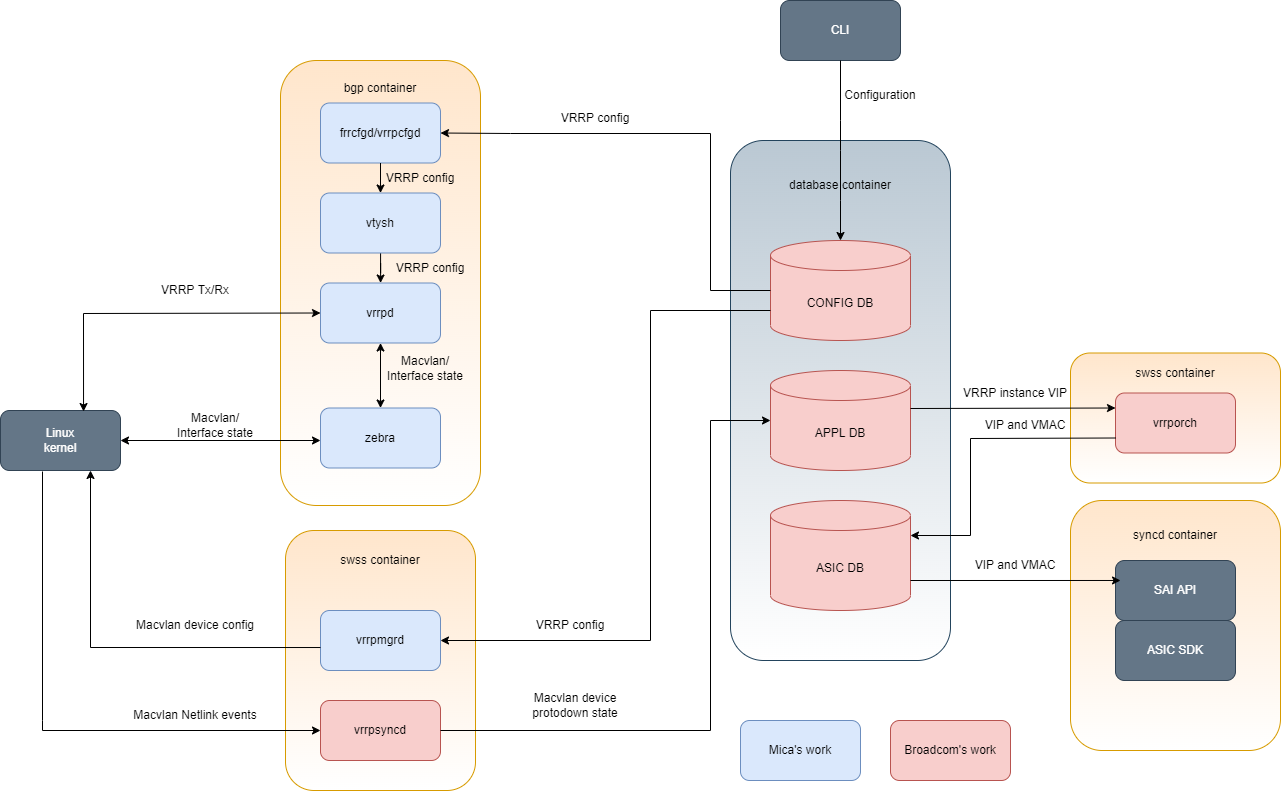
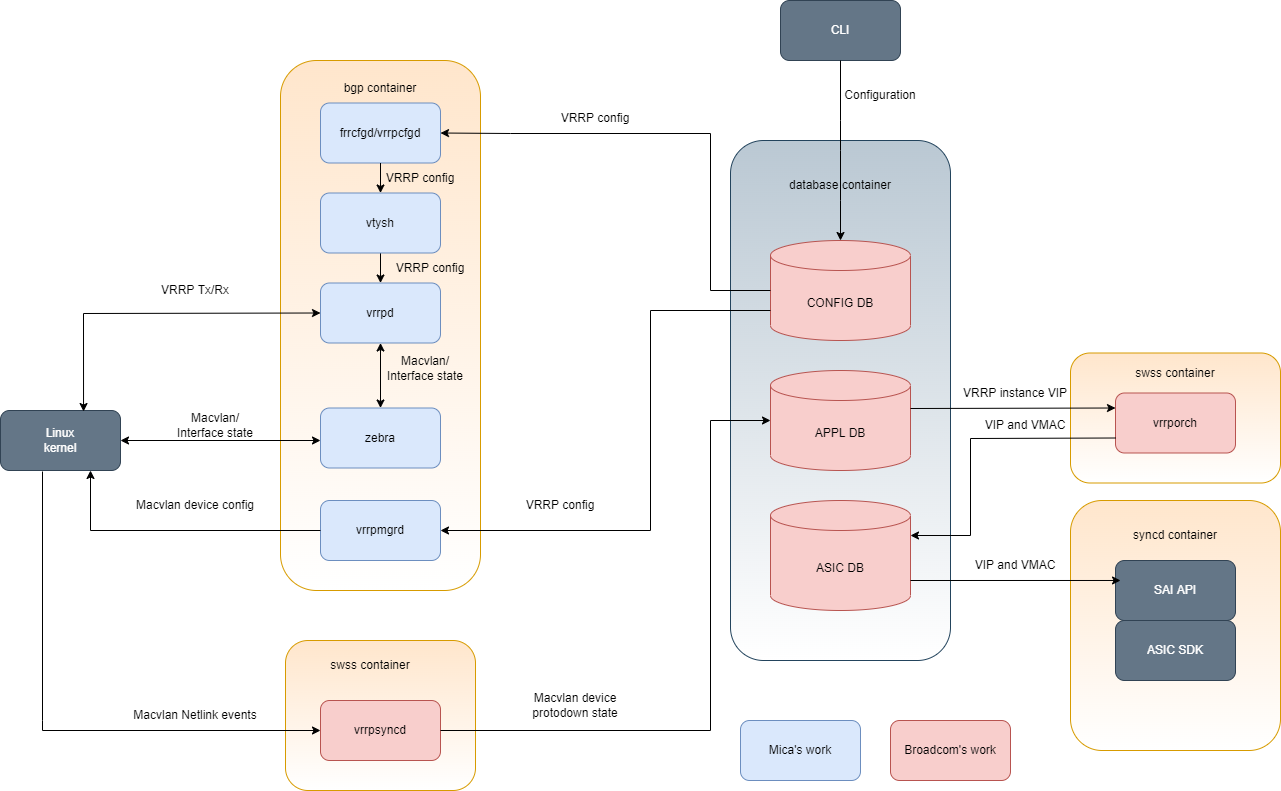
Run vrrpmgrd in BGP container

diff --git a/doc/vrrp/VRRP_Adaptation_HLD.md b/doc/vrrp/VRRP_Adaptation_HLD.md
@@ -216,13 +216,6 @@ zebra:
   - Provide an API for vrrpd to update kernel Macvlan device state.
   - Listen for kernel interface state change events and notify vrrpd.
 
-vrrpsyncd:
-  - Listens to MACVLAN interfaces that are added by vrrp, programming in kernel. Vrrpmgrd would add the MACVLAN interface in the kernel with interface name starting with 'vrrp'. Here the status of MACVLAN interface determines Master/Backup state of VRRP instances. VRRP_Table in APPL_DB will be programmed with interface name and VIP for Master instances.
-    - For every IP add to MACVLAN interface, adds interface name and Virtual IP in APPL_DB in VRRP_Table.
-    - For every IP delete from MACVLAN interface, deletes interface name and Virtual IP in APPL_DB from VRRP_Table.
-
-##### SWSS container
-
 vrrpmgrd:
   - Listens to VRRP create, delete and parameter change in CONFIG_DB. Complete the following tasks:
     - Add/del Linux Macvlan device to kernel. The Macvlan device name starting with 'Vrrp4-' or 'Vrrp6-'.
@@ -231,12 +224,19 @@ vrrpmgrd:
     - Update VRRP instance configuration to the APPL DB;
     - Update VRRP instance configuration to vrrpd by using vtysh commands.
 
+##### SWSS container
+
+vrrpsyncd:
+  - Listens to MACVLAN interfaces that are added by vrrp, programming in kernel. Vrrpmgrd would add the MACVLAN interface in the kernel with interface name starting with 'vrrp'. Here the status of MACVLAN interface determines Master/Backup state of VRRP instances. VRRP_Table in APPL_DB will be programmed with interface name and VIP for Master instances.
+    - For every IP add to MACVLAN interface, adds interface name and Virtual IP in APPL_DB in VRRP_Table.
+    - For every IP delete from MACVLAN interface, deletes interface name and Virtual IP in APPL_DB from VRRP_Table.
+
 vrrporch: 
   - Listens to VRRP_Table in APPL_DB and for entry in VRRP_TABLE, program the VIP as my IP and the VMAC as my MAC(virtual RIF) in ASIC_DB.
 
 #### CoPP Configurations
 
-CoPP will be extended as follows for trapping VRRPs. Whether to install it depends on the FEATURE|vrrp table in Config DB. If the VRRP state is enabled, it will be installed; otherwise, it will not be installed.
+CoPP will be extended as follows for trapping VRRPs. 
 ```
   "trap.group.vrrp": {
     "cir":"300",
@@ -252,7 +252,8 @@ CoPP will be extended as follows for trapping VRRPs. Whether to install it depen
   ...
   "vrrp": {
     "trap_ids": "vrrp", "vrrpv6",
-    "trap_group": "trap.group.vrrp"
+    "trap_group": "trap.group.vrrp",
+    "always_enabled": "true"
   },
 ```
 
@@ -542,11 +543,6 @@ SONIC Click based configuration and monitoring CLIs have been introduced in SONI
     - This command adds/ removes a VRRP instance on an interface.
     - interface_name:name of interface (Ethernet/Vlan/PortChannel/sub-interface).
     - vrrp_id:VRRP instance identifier.
-- config interface vrrp backup_forward <interface_name> <vrrp_id> enabled|disabled
-    - This command configures  enables/disables the VRRP instance to forward service traffic even if the VRRP instance in the backup state
-    - interface_name:name of interface (Ethernet/Vlan/PortChannel/sub-interface).
-    - vrrp_id:VRRP instance identifier.
-    - backup_forward: VRRP instance forwarding traffic in the backup state，can be enabled or disabeld. default is disabled.
 - config interface vrrp vip add/remove <interface_name> <vrrp_id> <virtual_ip_address>
     - This command adds a virtual IP address for a VRRP instance on an interface.
     - interface_name:name of interface (Ethernet/Vlan/PortChannel/sub-interface).
@@ -561,77 +557,67 @@ SONIC Click based configuration and monitoring CLIs have been introduced in SONI
     - This command configures VRRP periodic advertisement interval for a VRRP instance
     - interface_name:name of interface (Ethernet/Vlan/PortChannel/sub-interface).
     - vrrp_id:VRRP instance identifier.
-    - Interval: VRRP instance packet sending interval, range from 10 to 40950, unit: ms, default is 1000
+    - interval: VRRP instance packet sending interval, range from 10 to 40950, unit: ms, default is 1000
+- config interface vrrp version <interface_name> <vrrp_id> <version>
+    - This command configures VRRP periodic advertisement interval for a VRRP instance
+    - interface_name:name of interface (Ethernet/Vlan/PortChannel/sub-interface).
+    - vrrp_id:VRRP instance identifier.
+    - version: VRRP protocol version, 2 or 3, default is 3
 - config interface vrrp pre_empt enable/disable <interface_name> <vrrp_id>
     - This command enables pre-emption of a Master when a higher priority VRRP router arrives
     - interface_name:name of interface (Ethernet/Vlan/PortChannel/sub-interface).
     - vrrp_id:VRRP instance identifier.
-- config interface vrrp track_interface add/remove <interface_name> <vrrp_id> <track_interface>
+- config interface vrrp track_interface add/remove <interface_name> <vrrp_id> <track_interface> <priority_increment>
     - This command adds a track interface to a VRRP Instance.
     - interface_name:name of interface (Ethernet/Vlan/PortChannel/sub-interface).
     - vrrp_id:VRRP instance identifier.
     - track_interface: Interface to track. Interface can be Ethernet/Vlan/PortChannel
-- config interface vrrp priority_decrement <interface_name> <vrrp_id> <decrement_value>
-    - This command configures priority_decrement for a VRRP instance
-    - interface_name:name of interface (Ethernet/Vlan/PortChannel/sub-interface).
-    - vrrp_id:VRRP instance identifier.
-    - decrement_value: decrement the priority of the VRRP instance if the tracking interface goes down. range from 10 to 50, default is 20
+    - priority_increment: decrement the priority of the VRRP instance if the tracking interface goes down. range from 10 to 50, default is 20
 - config interface vrrp shutdown/startup <interface_name> <vrrp_id>
     - This command control up/down status of VRRP instance.
     - interface_name:name of interface (Ethernet/Vlan/PortChannel/sub-interface).
     - vrrp_id:VRRP instance identifier.
 
+- config interface vrrp6 add/remove <interface_name> <vrrp_id>
+    - This command adds/ removes a VRRPv6 instance on an interface.
+    - interface_name:name of interface (Ethernet/Vlan/PortChannel/sub-interface).
+    - vrrp_id:VRRPv6 instance identifier.
+- config interface vrrp6  ipv6 add/remove <interface_name> <vrrp_id> <virtual_ip_address>
+    - This command adds a virtual IP address for a VRRPv6 instance on an interface.
+    - interface_name:name of interface (Ethernet/Vlan/PortChannel/sub-interface).
+    - vrrp_id:VRRPv6 instance identifier.
+    - virtual_ip_address: VIP is an IPv6 address, represented in hexadecimal.
+- config interface vrrp6 priority <interface_name> <vrrp_id> <priority>
+    - This command configures priority for a VRRPv6 instance
+    - interface_name:name of interface (Ethernet/Vlan/PortChannel/sub-interface).
+    - vrrp_id:VRRPv6 instance identifier.
+    - priority: VRRPv6 instance priority, range from 1 to 254, default is 100
+- config interface vrrp6 adv_interval <interface_name> <vrrp_id> <interval>
+    - This command configures VRRPv6 periodic advertisement interval for a VRRPv6 instance
+    - interface_name:name of interface (Ethernet/Vlan/PortChannel/sub-interface).
+    - vrrp_id:VRRPv6 instance identifier.
+    - interval: VRRPv6 instance packet sending interval, range from 10 to 40950, unit: ms, default is 1000
+- config interface vrrp6 pre_empt enable/disable <interface_name> <vrrp_id>
+    - This command enables pre-emption of a Master when a higher priority VRRPv6 router arrives
+    - interface_name:name of interface (Ethernet/Vlan/PortChannel/sub-interface).
+    - vrrp_id:VRRPv6 instance identifier.
+- config interface vrrp6 track_interface add/remove <interface_name> <vrrp_id> <track_interface> <priority_increment>
+    - This command adds a track interface to a VRRPv6 Instance.
+    - interface_name:name of interface (Ethernet/Vlan/PortChannel/sub-interface).
+    - vrrp_id:VRRPv6 instance identifier.
+    - track_interface: Interface to track. Interface can be Ethernet/Vlan/PortChannel
+    - priority_increment: decrement the priority of the VRRPv6 instance if the tracking interface goes down. range from 10 to 50, default is 20
+- config interface vrrp6 shutdown/startup <interface_name> <vrrp_id>
+    - This command control up/down status of VRRPv6 instance.
+    - interface_name:name of interface (Ethernet/Vlan/PortChannel/sub-interface).
+    - vrrp_id:VRRPv6 instance identifier.
+
 ###### Show commands
 - show vrrp {interface <interface_name> } | <vrrp_id>
 - show vrrp summary
 
-```
-admin@sonic:~$ show vrrp interface Ethernet50
-
- Virtual Router ID                    5                   
- Protocol Version                     3                   
- Autoconfigured                       No                  
- Shutdown                             No                  
- Interface                            Ethernet50          
- VRRP interface (v4)                  Vrrp4-5             
- VRRP interface (v6)                  None                
- Primary IP (v4)                      10.0.0.98           
- Primary IP (v6)                      ::                  
- Virtual MAC (v4)                     00:00:5e:00:01:05   
- Virtual MAC (v6)                     00:00:5e:00:02:05   
- Status (v4)                          Master              
- Status (v6)                          Initialize          
- Priority                             100                 
- Effective Priority (v4)              100                 
- Effective Priority (v6)              100                 
- Preempt Mode                         Yes                 
- Accept Mode                          Yes                 
- Advertisement Interval               1000 ms             
- Master Advertisement Interval (v4)   1000 ms             
- Master Advertisement Interval (v6)   0 ms                
- Advertisements Tx (v4)               95                  
- Advertisements Tx (v6)               0                   
- Advertisements Rx (v4)               0                   
- Advertisements Rx (v6)               0                   
- Gratuitous ARP Tx (v4)               1                   
- Neigh. Adverts Tx (v6)               0                   
- State transitions (v4)               2                   
- State transitions (v6)               0                   
- Skew Time (v4)                       600 ms              
- Skew Time (v6)                       0 ms                
- Master Down Interval (v4)            3600 ms             
- Master Down Interval (v6)            0 ms                
- IPv4 Addresses                       1                   
- ..................................   10.10.10.10         
- IPv6 Addresses                       0       
-
-admin@sonic:~$ show vrrp summary 
-
- Interface    VRID   Priority   IPv4   IPv6   State (v4)   State (v6)   
- -----------------------------------------------------------------------
- Ethernet48   6      100        1      0      Backup       Backup       
- Ethernet50   5      100        1      0      Master       Backup    
-```
+- show vrrp6 {interface <interface_name> } | <vrrp_id>
+- show vrrp6 summary
 
 ### Warmboot and Fastboot Design Impact  
 
